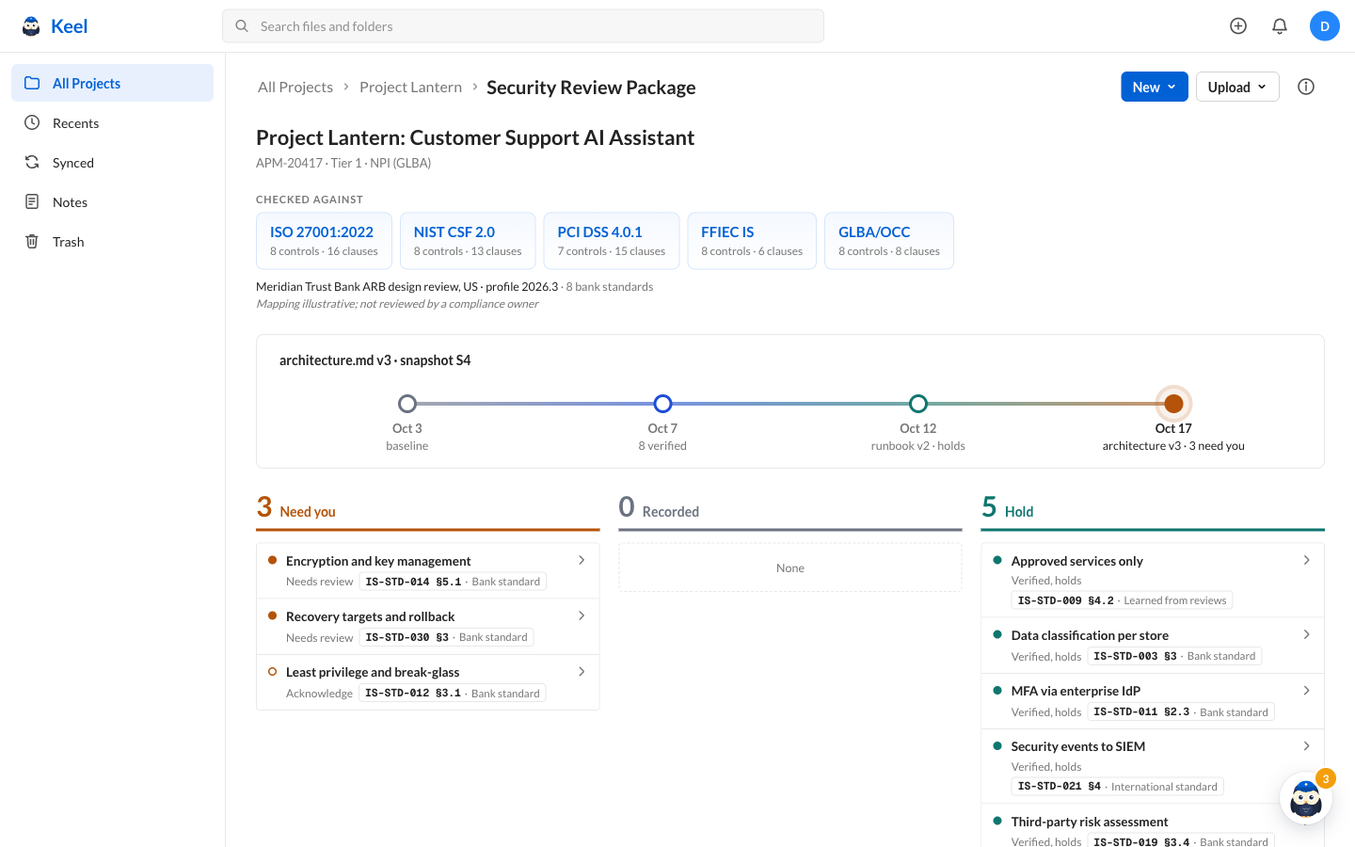
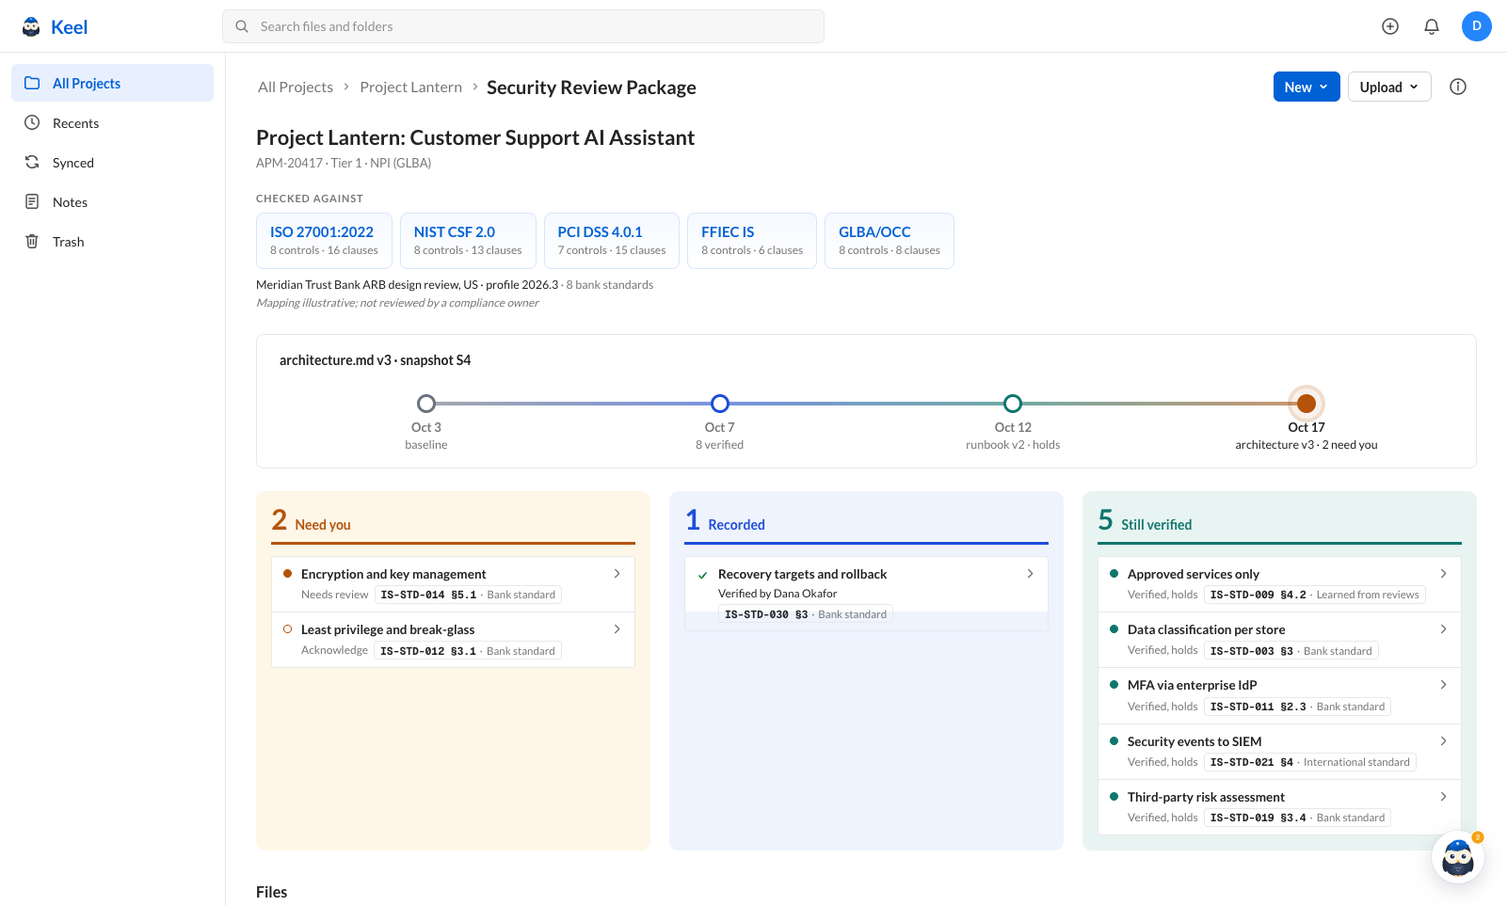
ui: welcome board columns tinted by tile tone; engine: hold tile labelled "Still verified" (docs and screenshot updated)

diff --git a/app/src/components/panel/Level1.tsx b/app/src/components/panel/Level1.tsx
@@ -354,13 +354,21 @@ export function Level1({ variant = "panel" }: { variant?: "panel" | "page" }) {
 }
 
 const COLUMN_TONE: Record<DashboardTile["tone"], string> = { teal: C.teal, amber: C.amber, blue: C.blue, grey: C.grey };
-const COLUMN_NAME: Record<DashboardTile["key"], string> = { need_you: "Need you", recorded: "Recorded", hold: "Hold" };
+const COLUMN_NAME: Record<DashboardTile["key"], string> = { need_you: "Need you", recorded: "Recorded", hold: "Still verified" };
 
-/** One welcome-board column: the tile's count and label as the header, a tone rule, then its rows. */
+const COLUMN_BG: Record<DashboardTile["tone"], string> = { teal: C.tealBg, amber: C.amberBg, blue: C.blueBg, grey: C.greyBg };
+
+/** One welcome-board column: a tinted card with the tile's count and label as the header, a tone rule, then its rows. */
 function Column({ tile, fallback, past, items }: { tile?: DashboardTile; fallback: DashboardTile["key"]; past: boolean; items: React.ReactNode[] }) {
   const tone = COLUMN_TONE[tile?.tone ?? "grey"] ?? C.grey;
+  const bg = COLUMN_BG[tile?.tone ?? "grey"] ?? C.greyBg;
   return (
-    <section aria-label={tile?.label ?? COLUMN_NAME[fallback]} data-column={fallback} className="min-w-0">
+    <section
+      aria-label={tile?.label ?? COLUMN_NAME[fallback]}
+      data-column={fallback}
+      className="min-w-0 rounded-[10px] px-4 pb-4 pt-3.5"
+      style={{ background: bg, transition: "background-color 300ms" }}
+    >
       <header className="flex items-baseline gap-2 border-b-[3px] pb-2" style={{ borderColor: tone, transition: "border-color 300ms" }}>
         <span className="text-[30px] font-bold leading-none tabular-nums" style={{ color: tone, transition: "color 300ms" }}>
           <Count value={tile?.value ?? 0} />
@@ -374,7 +382,7 @@ function Column({ tile, fallback, past, items }: { tile?: DashboardTile; fallbac
           {items}
         </ul>
       ) : (
-        <p className="mt-3 rounded-[4px] border border-dashed px-3 py-4 text-center text-[12.5px]" style={{ borderColor: C.border, color: C.secondary }}>
+        <p className="mt-3 rounded-[4px] border border-dashed bg-white/60 px-3 py-4 text-center text-[12.5px]" style={{ borderColor: C.border, color: C.secondary }}>
           {past ? "None on this date" : "None"}
         </p>
       )}

diff --git a/app/test/v4-additive.test.ts b/app/test/v4-additive.test.ts
@@ -818,11 +818,11 @@ describe("v4.1: dashboard tiles", () => {
   it("Hold / Need you / Recorded at S3, after the run, and after all three actions", async () => {
     svc.reset();
     const tiles = () => svc.getPackageView().dashboard!.tiles.map((t) => [t.key, t.label, t.value, t.tone]);
-    expect(tiles()).toEqual([["hold", "Hold", 8, "teal"], ["need_you", "Need you", 0, "grey"], ["recorded", "Recorded", 0, "grey"]]);
+    expect(tiles()).toEqual([["hold", "Still verified", 8, "teal"], ["need_you", "Need you", 0, "grey"], ["recorded", "Recorded", 0, "grey"]]);
     await (await svc.submit({ scenario: "architecture_v3" })).done!;
-    expect(tiles()).toEqual([["hold", "Hold", 5, "teal"], ["need_you", "Need you", 3, "amber"], ["recorded", "Recorded", 0, "grey"]]);
+    expect(tiles()).toEqual([["hold", "Still verified", 5, "teal"], ["need_you", "Need you", 3, "amber"], ["recorded", "Recorded", 0, "grey"]]);
     await allThreeActions();
-    expect(tiles()).toEqual([["hold", "Hold", 5, "teal"], ["need_you", "Need you", 0, "grey"], ["recorded", "Recorded", 3, "blue"]]);
+    expect(tiles()).toEqual([["hold", "Still verified", 5, "teal"], ["need_you", "Need you", 0, "grey"], ["recorded", "Recorded", 3, "blue"]]);
     const t = svc.getPackageView().dashboard!.tiles;
     expect(t.find((x) => x.key === "need_you")!.value).toBe(svc.getPackageView().open_decisions);
     svc.reset();

diff --git a/app/src/lib/engine/history.ts b/app/src/lib/engine/history.ts
@@ -24,7 +24,7 @@ export function dashboardTiles(store: Store, rows: RowWithState[]): DashboardTil
   const need = rows.filter((r) => needsDecision(store, r)).length;
   const recorded = rows.filter((r) => hasRecordedDecision(store, r)).length;
   return [
-    { key: "hold", label: "Hold", value: hold, tone: hold ? "teal" : "grey" },
+    { key: "hold", label: "Still verified", value: hold, tone: hold ? "teal" : "grey" },
     { key: "need_you", label: "Need you", value: need, tone: need ? "amber" : "grey" },
     { key: "recorded", label: "Recorded", value: recorded, tone: recorded ? "blue" : "grey" },
   ];

diff --git a/README.md b/README.md
@@ -9,9 +9,9 @@ Keel adds version-bound control-evidence history and re-review rules to a Box re
 
 Built for the Box + AWS Agentic Enterprise AI Hackathon, October 16 to 17, 2026.
 
-![Keel on the Box folder page after a new architecture version: the frameworks checked against, the package timeline, and the Need you / Recorded / Hold board](docs/assets/keel-welcome.png)
+![Keel on the Box folder page after a new architecture version: the frameworks checked against, the package timeline, and the Need you / Recorded / Still verified board](docs/assets/keel-welcome.png)
 
-*The main experience, in mock mode: the project welcome screen on the Box folder page right after `architecture.md` v3 was uploaded. Three controls need the reviewer, five verifications hold.*
+*The main experience, in mock mode: the project welcome screen on the Box folder page after `architecture.md` v3 was uploaded and the reviewer verified one control. Two controls still need the reviewer and five earlier verifications are still verified.*
 
 ![The side panel on the encryption control: the sentence a reviewer agreed to in v2, the replacement in v3, and the computed verdict](docs/assets/keel-control.png)
 
@@ -55,9 +55,9 @@ A hash says the page changed. A reviewer needs to know which control lost which 
 The reviewer never leaves Box. The app is one page with four things on it, plus a Box file preview.
 
 - **The Box page.** A replica of the Box folder list for Project Lantern's Security Review Package: the Keel wordmark and All Projects in the header, left nav, search, the five files with a Version column, and Box's own **Upload** menu. File names, versions, dates and sizes come from the current snapshot through `GET /api/package`. A dot on a file row means Keel has decisions on that file: amber while one is open, blue once every decision on it is recorded. The **ⓘ** button opens Box's details pane with the folder's `keelReview` metadata fields.
-- **The welcome screen.** Above the file list, while the panel is closed, sits the project overview at page size. It shows the project title and application facts, then a "Checked against" header with one badge per framework the profile maps to (ISO 27001:2022, NIST CSF 2.0, PCI DSS 4.0.1, FFIEC IS, GLBA/OCC, each with control and clause counts), the profile line and the "illustrative" mapping caveat. Next comes the changed line with the package timeline as a scrubber. Last is the board: three columns, Need you, Recorded and Hold, each headed by the engine's tile count. Rows fly between columns as decisions land. Clicking a past timeline point shows the board as it stood on that date ("Status on …", **Back to now**). Clicking any row opens that control in the side panel, and the welcome screen folds away toward it. The panel's expand button closes the panel and unfolds the welcome screen again.
+- **The welcome screen.** Above the file list, while the panel is closed, sits the project overview at page size. It shows the project title and application facts, then a "Checked against" header with one badge per framework the profile maps to (ISO 27001:2022, NIST CSF 2.0, PCI DSS 4.0.1, FFIEC IS, GLBA/OCC, each with control and clause counts), the profile line and the "illustrative" mapping caveat. Next comes the changed line with the package timeline as a scrubber. Last is the board: three columns, Need you, Recorded and Still verified, each headed by the engine's tile count. Rows fly between columns as decisions land. Clicking a past timeline point shows the board as it stood on that date ("Status on …", **Back to now**). Clicking any row opens that control in the side panel, and the welcome screen folds away toward it. The panel's expand button closes the panel and unfolds the welcome screen again.
 - **The owl.** Keel's agent, at the bottom right. It blinks when idle, its pupils sweep while a run works, and it speaks one short line at a time. During a run the bubble shows each step, such as "Re-checking 8 controls on Bedrock…". After the run it shows the summary, such as "1 Critical needs your decision. 2 more to look at.", with a badge counting open decisions. Clicking it opens the panel.
-- **The panel, level 1.** Titled **Control review**, 540 px wide. Three tiles count displayed outcomes: Hold, Need you and Recorded. Selecting a tile filters the list to that group. Below them sit the changed line and a package timeline with one point per snapshot, named by date, with the file that changed and the status after it. Clicking a past point shows the status card and each control's status as they stood then. Then come the rows under NEED YOU, ACKNOWLEDGE and RECORDED, one rule per row with its status word and a rule-source chip such as "IS-STD-014 §5.1 · Bank standard". The verifications that hold are folded below.
+- **The panel, level 1.** Titled **Control review**, 540 px wide. Three tiles count displayed outcomes: Still verified, Need you and Recorded. Selecting a tile filters the list to that group. Below them sit the changed line and a package timeline with one point per snapshot, named by date, with the file that changed and the status after it. Clicking a past point shows the status card and each control's status as they stood then. Then come the rows under NEED YOU, ACKNOWLEDGE and RECORDED, one rule per row with its status word and a rule-source chip such as "IS-STD-014 §5.1 · Bank standard". The verifications that hold are folded below.
 - **The panel, level 2.** One control. The rule source shows who set the rule up and an illustrative framework map. Next comes the control's own timeline. AGREED is the sentence a named reviewer verified, with who, which version and when. CHANGED shows where the new document changed it, with the new words underlined and an **Open in document ↗** link. Last come one computed verdict line and the buttons the engine enables. Return to author, Verify and Acknowledge expand inline. Each recorded decision shows a three-line receipt, and **Show the record** expands its ledger events and the hash-chain check.
 - **The Box file preview.** **Open in document ↗** opens `/files/[fileId]` with Box's preview chrome, the document rendered at its pinned version, and the sentence highlighted with a Keel pill in the margin. The version menu switches between v1, v2 and v3, so the reviewer can see what was there before. The panel stays open beside it.
 
@@ -69,7 +69,7 @@ The UI never writes machine text. The owl's lines, tiles, timeline labels, row l
 
 Rehearsal captures live locally under `app/.review/v4/` (gitignored). The set that tells the story, in the order of the two-minute script in `docs/demo.md`:
 
-1. Baseline at 1440: the welcome screen with the standards header, the timeline scrubber and the board at Need you 0, Recorded 0, Hold 8. Or the panel open on tiles 8, 0, 0, the package timeline and the eight holding items.
+1. Baseline at 1440: the welcome screen with the standards header, the timeline scrubber and the board at Need you 0, Recorded 0, Still verified 8. Or the panel open on tiles 8, 0, 0, the package timeline and the eight holding items.
 2. A holding item at level 2: the rule chip, the AGREED sentence and who verified it.
 3. The Upload menu with **Upload new version**, then the owl working with a step line in its bubble.
 4. After the run: tiles 5, 3, 0, the badge, the summary bubble and amber dots.
@@ -191,7 +191,7 @@ Set `MOCK_MODE=false` in `app/.env.local` (copy from `app/.env.example`, never c
 - Box AI text generation for the author task message.
 - Deterministic layer: prior-quote diff, quote validation, coverage check, staleness and materiality, display rules, hash-chained JSON ledger, disposition handler with re-apply logic.
 - Box writes: folder metadata, a reviewer task per finding, an author task on return, task polling with identity capture.
-- A project welcome screen on the folder page: the frameworks the profile maps to, a timeline scrubber that shows the status on any past snapshot, and a Need you / Recorded / Hold board.
+- A project welcome screen on the folder page: the frameworks the profile maps to, a timeline scrubber that shows the status on any past snapshot, and a Need you / Recorded / Still verified board.
 - A Box folder replica with the owl and one side panel: overview tiles that filter the list, package and control timelines, rule-source chips, the AGREED and CHANGED evidence pair, inline Return to author, Verify and Acknowledge, receipts with the record, and a menu for the rules, the full ledger with export, the run trace, replay and reset.
 - A Box file preview with a version menu that highlights the cited sentence at its pinned version.
 

diff --git a/docs/demo.md b/docs/demo.md
@@ -42,9 +42,9 @@ below are the exact labels on screen. Quoted owl lines and panel text come from 
    its bubble hide while it is open. Press **✕** (Close Keel) before **Upload ▾**, then click the owl again after the
    run. At 768 tall **Approve and send** is visible without scrolling.
 8. Open the starting frame. With the panel closed, the folder page shows the project welcome screen: "Checked
-   against" framework badges, the timeline scrubber and the board at Need you 0, Recorded 0, Hold 8. The script
+   against" framework badges, the timeline scrubber and the board at Need you 0, Recorded 0, Still verified 8. The script
    below starts from the panel instead: click the owl so the panel is open at level 1 on the baseline. Clicking a
-   board row also opens the panel, and the panel's expand button returns to the welcome screen. The tiles read Hold 8,
+   board row also opens the panel, and the panel's expand button returns to the welcome screen. The tiles read Still verified 8,
    Need you 0, Recorded 0. There is no badge and no dot on any file row.
 9. Check the mode line at the bottom of the **⋯** menu, then close the menu. It reads **Mode · Mock**, **Mode ·
    Live** or **Mode · Replay**. Never present mock output as live.
@@ -53,13 +53,13 @@ below are the exact labels on screen. Quoted owl lines and panel text come from 
 
 | Time | Narration | On screen | Click |
 | --- | --- | --- | --- |
-| 0:00 | "Your project has a compliance checklist. Its documents keep changing. How do you know where the review stands today? Keel shows the current status of each checklist item, with the evidence behind it." | Box page with the panel open at level 1. Tiles **8** Hold, **0** Need you, **0** Recorded. "snapshot S3 · 8 verifications hold". Package timeline S1 "baseline", S2 "8 verified", S3 "runbook v2 · holds". The eight holding items listed below | Nothing. |
+| 0:00 | "Your project has a compliance checklist. Its documents keep changing. How do you know where the review stands today? Keel shows the current status of each checklist item, with the evidence behind it." | Box page with the panel open at level 1. Tiles **8** Still verified, **0** Need you, **0** Recorded. "snapshot S3 · 8 verifications hold". Package timeline S1 "baseline", S2 "8 verified", S3 "runbook v2 · holds". The eight holding items listed below | Nothing. |
 | 0:15 | "Here is our example package, in our Box replica. Eight previous verifications hold. Open an item to see its rule, its supporting text, and who verified it." | Level 2 for Encryption at rest and key management: the chip "IS-STD-014 §5.1 · Bank standard", "Set up by Security Architecture (ARB)", the AGREED sentence on customer-managed keys, the byline "Verified by Priya Natarajan · v2 §4.3 · Oct 8", and "The verified sentence is unchanged." | Row **SEC-ARCH-07** in the hold list. Point at the chip and the byline. Then **‹** (Back). |
 | 0:30 | "Now we upload a new version." Mock, while the owl works: "This demo uses simulated integrations with the same review engine. In the live design, Bedrock reassesses the controls and uses Box AI to search for evidence across the package. Code checks the quotes against exact document versions. Box stores the documents and review tasks." | Row reads "Uploading new version…", then "Upload complete" and v3. The panel rows read "Re-check pending". The owl's pupils sweep and its bubble steps through the run | **Upload ▾** → **Upload new version** → select **architecture.md (v3 draft)** → **Upload**. At 1024, press **✕** first. |
-| 0:55 | "The overview updates: five verifications hold, three items need a person. For encryption, the new document no longer supports the required key-management details. Here is the previous commitment, and here is the replacement." | Bubble "1 Critical needs your decision. 2 more to look at.", badge 3. Tiles **5** Hold, **3** Need you, **0** Recorded. The S4 point reads "architecture v3 · 3 need you". On level 2: the rule chip, then AGREED, then "Changed in architecture.md v3 §4.3" with the new words underlined, then "4 of 5 clauses unsupported in every file of this snapshot. Box AI found 0 citations across the other 4 files." | Point at the tiles. Then the Encryption row under NEED YOU. At 1024, click the owl first. |
+| 0:55 | "The overview updates: five verifications hold, three items need a person. For encryption, the new document no longer supports the required key-management details. Here is the previous commitment, and here is the replacement." | Bubble "1 Critical needs your decision. 2 more to look at.", badge 3. Tiles **5** Still verified, **3** Need you, **0** Recorded. The S4 point reads "architecture v3 · 3 need you". On level 2: the rule chip, then AGREED, then "Changed in architecture.md v3 §4.3" with the new words underlined, then "4 of 5 clauses unsupported in every file of this snapshot. Box AI found 0 citations across the other 4 files." | Point at the tiles. Then the Encryption row under NEED YOU. At 1024, click the owl first. |
 | 1:15 | "The timeline shows the earlier verification, when it continued to hold, and the file version that triggered this review." | The control timeline: S2 "verified by Priya", S3 "holds", S4 "architecture v3 · needs review", with the current point filled | Point along the strip. Hover the S4 dot for "architecture.md v3 changed." if the room is close. |
 | 1:30 | "The reviewer returns this item to the author, checks the drafted task, and approves sending. Keel records the response against this version. The evidence gap remains open." | Empty reason field, then the suggested reason. "Box AI drafted this task for J. Park", tagged "Drafted by Box AI". Then the receipt: "Returned to author by Dana Okafor" / "Box task … for J. Park (Eng) · due Oct 23" / "on architecture.md v3 · snapshot S4" | **Return to author** → **Use suggested reason (drafted by Keel)** → **Return and draft author task** → read the draft → **Approve and send**. |
-| 1:50 | "Keel gives teams a current view of their compliance review, with evidence explaining every status." | Level 1: tiles **5** Hold, **2** Need you, **1** Recorded. Encryption under RECORDED with "Returned to author by Dana Okafor". The recovery item under NEED YOU, least privilege under ACKNOWLEDGE. At 1440 the owl beside the panel says "1 High needs your decision. 1 more to look at.", badge 2 | **‹** (Back). Stop here. |
+| 1:50 | "Keel gives teams a current view of their compliance review, with evidence explaining every status." | Level 1: tiles **5** Still verified, **2** Need you, **1** Recorded. Encryption under RECORDED with "Returned to author by Dana Okafor". The recovery item under NEED YOU, least privilege under ACKNOWLEDGE. At 1440 the owl beside the panel says "1 High needs your decision. 1 more to look at.", badge 2 | **‹** (Back). Stop here. |
 
 The reason field starts empty by design, and so does the attestation field in the extended path. The chip fills
 it on click, so the room sees the reviewer choose the words. The machine does not decide for the reviewer.
@@ -118,7 +118,7 @@ Use this when the slot is three minutes, or to answer a judge. It continues from
 
 | Where | Text |
 | --- | --- |
-| Tiles | **5** Hold, **0** Need you, **3** Recorded |
+| Tiles | **5** Still verified, **0** Need you, **3** Recorded |
 | Level 1, RECORDED, in this order | Encryption "Returned to author by Dana Okafor", recovery "Verified by Dana Okafor", least privilege "Verified, holds · Acknowledged by Dana Okafor" |
 | Package timeline, S4 | "architecture v3 · recorded" |
 | Count line, in the API and the record only | "8 controls on snapshot S4: 6 Verified holds, 1 Verified, 1 Returned to author" |

diff --git a/presentation/README.md b/presentation/README.md
@@ -71,7 +71,7 @@ For encryption, the new document no longer supports the required key-management 
 ## 演示重点
 
 - 主角是固定 checklist 和整体状态。原文对比解释其中一项为什么变化。
-- 首页显示实际 API 标签 Hold / Need you / Recorded，不称合规通过率。数字必须来自运行结果。稿中的 8、5、3 是当前标准 fixture 流程的预期值，实际不同就照实际说。
+- 首页显示实际 API 标签 Still verified / Need you / Recorded，不称合规通过率。数字必须来自运行结果。稿中的 8、5、3 是当前标准 fixture 流程的预期值，实际不同就照实际说。
 - timeline 进入主流程，但只用 15 秒。指向以前谁验证、哪次文件更新触发复核即可。
 - 每个 timeline 点对应文档包快照。同一快照内的人工作业会更新节点状态，完整操作在 audit record。不要描述为每次操作一个节点。
 - 返回作者后，只减少已处理的 reviewer 待办。不要说问题已修复、全部合规或全部通过。
@@ -84,7 +84,7 @@ For encryption, the new document no longer supports the required key-management 
 
 This file plans the experience. It does not certify that every feature or live integration is ready.
 
-- As of `3a0b91d` (merged to `main` Oct 17), the panel tiles, package and control timelines, rule-source chips and AGREED/CHANGED blocks are wired. The folder page opens on the project welcome screen: the frameworks checked against, a timeline scrubber that shows the status on any past date, and a Need you / Recorded / Hold board.
+- As of `3a0b91d` (merged to `main` Oct 17), the panel tiles, package and control timelines, rule-source chips and AGREED/CHANGED blocks are wired. The folder page opens on the project welcome screen: the frameworks checked against, a timeline scrubber that shows the status on any past date, and a Need you / Recorded / Still verified board.
 - The Box-style file preview, version menu and **Open in document ↗** highlight are wired from the panel. Highlight preview remains optional in the two-minute core.
 - Confirm the mode before presenting. With mock adapters, say “This demo uses simulated integrations with the same review engine.” In section C, introduce the integration description with “In the live design”. Do not present simulated calls as live Box or Bedrock execution.
 - The Box page is a replica. In mock mode describe it as “our Box replica”, not an installed native Box extension.

diff --git a/docs/CONTRACTS.md b/docs/CONTRACTS.md
@@ -268,8 +268,8 @@ Design: `docs/research/51-ui-v4-1-team-review.md`, section "API additions". All 
   `standard` and `clause` are parsed from the profile's `standard` string. These fields also appear on card rows and recorded outcome rows.
 
 **PackageView.**
-- `dashboard: { tiles: DashboardTile[] }`. Each tile is `{ key: "hold" | "need_you" | "recorded", label: "Hold" | "Need you" | "Recorded", value, tone }`, computed from displayed outcomes and decision flags.
-  - Hold counts rule-10 rows with no decision recorded.
+- `dashboard: { tiles: DashboardTile[] }`. Each tile is `{ key: "hold" | "need_you" | "recorded", label: "Still verified" | "Need you" | "Recorded", value, tone }`, computed from displayed outcomes and decision flags.
+  - Still verified counts rule-10 rows with no decision recorded.
   - Need you equals `open_decisions`.
   - Recorded counts rows with `decision_recorded`.
   - Tones are teal, amber and blue, and grey when the value is 0.
@@ -334,3 +334,5 @@ screen folds away; the panel's expand button closes the panel and brings it back
 - Clicking a past point shows "Status on <date>" with that snapshot's board (welcome screen) or status card and rows (panel), read-only, with **Back to now**. Points are labelled by date.
 
 **Panel.** Selecting a dashboard tile filters level 1 to that group (Need you also covers Acknowledge). A tile whose value drops to 0 clears the filter. Tiles are not selectable during a re-check, a replay or a past point. `PANEL_WIDTH` is 540 px, shared with the Box page push.
+
+**Round 7 follow-up: the hold tile's label.** The tile with `key: "hold"` is labelled "Still verified" (was "Hold", which read as "on hold"). The key, value and tone are unchanged. The welcome board's columns are tinted with the tile's tone background (amber, blue, teal; grey at 0).

diff --git a/docs/architecture.md b/docs/architecture.md
@@ -59,7 +59,7 @@ box in the component diagram is this layer.
 
 UI v4.2 adds a project welcome screen above the file list while the panel is closed: the frameworks the control
 profile maps to, a package timeline scrubber that shows each control's status as of any past snapshot, and a
-Need you / Recorded / Hold board headed by the engine's tile counts. A row click opens the control in the side panel.
+Need you / Recorded / Still verified board headed by the engine's tile counts. A row click opens the control in the side panel.
 The new fields (`PackageView.standards`, `PackageView.status_card`, `TimelinePoint.as_of`) are computed in the engine;
 see `docs/CONTRACTS.md` round 7.
 
